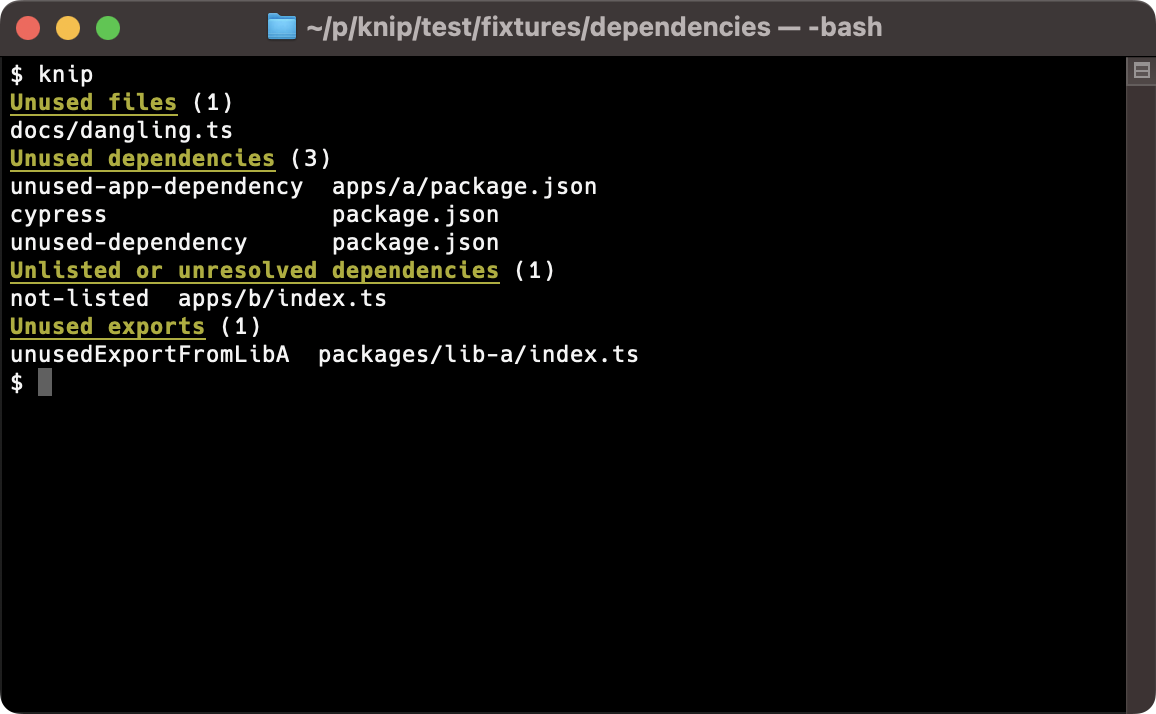
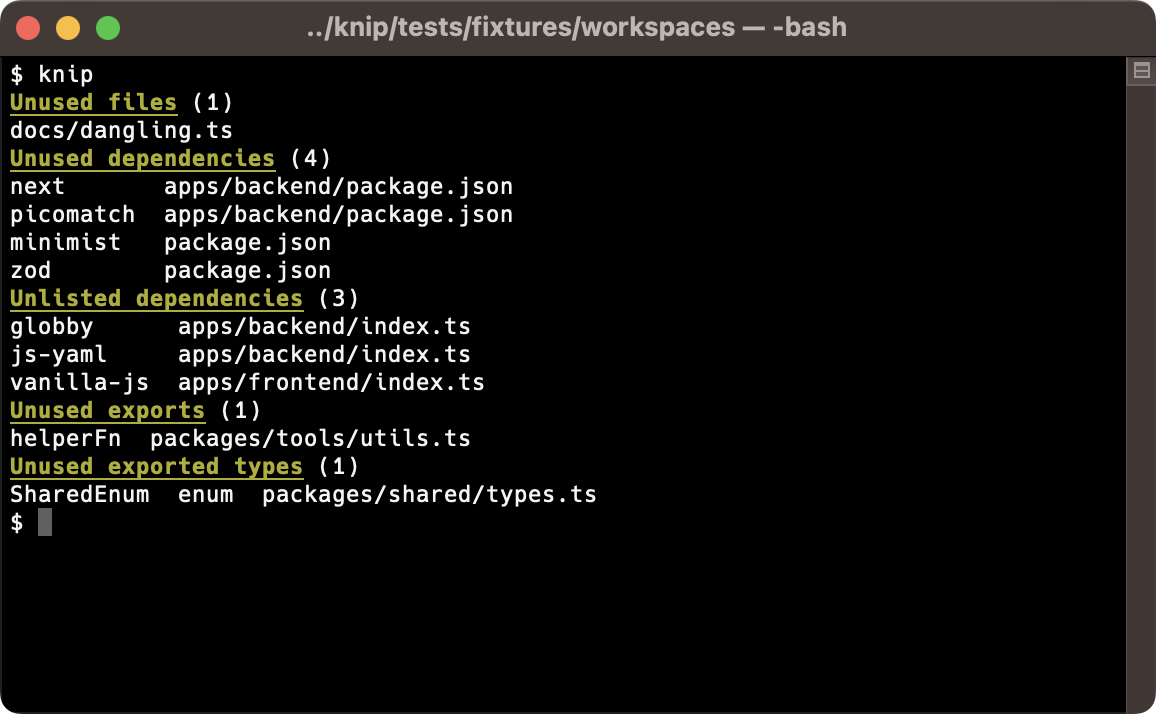
Make names in the workspaces fixture a more real-world example

Changed region(s): [[0.0, 0.2157, 0.5606, 0.7703], [0.218, 0.0, 0.7785, 0.0616]]

diff --git a/tests/workspaces.test.ts b/tests/workspaces.test.ts
@@ -5,9 +5,9 @@ import { resolve, join } from '../src/util/path.js';
 import baseArguments from './helpers/baseArguments.js';
 import baseCounters from './helpers/baseCounters.js';
 
-test('Find unused files, dependencies and exports in workspaces (loose)', async () => {
-  const cwd = resolve('tests/fixtures/workspaces');
+const cwd = resolve('tests/fixtures/workspaces');
 
+test('Find unused files, dependencies and exports in workspaces (default)', async () => {
   const { issues, counters } = await main({
     ...baseArguments,
     cwd,
@@ -15,28 +15,35 @@ test('Find unused files, dependencies and exports in workspaces (loose)', async 
 
   assert(issues.files.has(join(cwd, 'docs/dangling.ts')));
 
-  assert.equal(Object.keys(issues.dependencies['package.json']).length, 1);
-  assert.equal(Object.keys(issues.dependencies['apps/a/package.json']).length, 1);
+  assert.equal(Object.keys(issues.dependencies['package.json']).length, 2);
+  assert.equal(Object.keys(issues.dependencies['apps/backend/package.json']).length, 2);
 
-  assert(issues.dependencies['package.json']['unused-dependency']);
-  assert(issues.dependencies['apps/a/package.json']['unused-app-dependency']);
+  assert(issues.dependencies['package.json']['minimist']);
+  assert(issues.dependencies['package.json']['zod']);
+  assert(issues.dependencies['apps/backend/package.json']['next']);
+  assert(issues.dependencies['apps/backend/package.json']['picomatch']);
 
-  assert.equal(Object.keys(issues.unlisted).length, 1);
-  assert(issues.unlisted['apps/b/index.ts']['not-listed']);
+  assert.equal(Object.keys(issues.unlisted).length, 2);
+  assert(issues.unlisted['apps/frontend/index.ts']['vanilla-js']);
+  assert(issues.unlisted['apps/backend/index.ts']['globby']);
+  assert(issues.unlisted['apps/backend/index.ts']['js-yaml']);
+
+  assert.equal(Object.keys(issues.types).length, 1);
+  assert(issues.types['packages/shared/types.ts']['SharedEnum']);
 
   assert.deepEqual(counters, {
     ...baseCounters,
     files: 1,
-    dependencies: 2,
-    unlisted: 1,
-    processed: 5,
-    total: 5,
+    exports: 1,
+    types: 1,
+    dependencies: 4,
+    unlisted: 3,
+    processed: 7,
+    total: 7,
   });
 });
 
 test('Find unused files, dependencies and exports in workspaces (strict)', async () => {
-  const cwd = resolve('tests/fixtures/workspaces');
-
   const { issues, counters } = await main({
     ...baseArguments,
     cwd,
@@ -44,27 +51,29 @@ test('Find unused files, dependencies and exports in workspaces (strict)', async
     isStrict: true,
   });
 
-  const [file] = Array.from(issues.files);
-  assert.match(String(file), /docs\/dangling\.ts$/);
+  assert(issues.files.has(join(cwd, 'docs/dangling.ts')));
 
   assert.equal(Object.keys(issues.dependencies['package.json']).length, 3);
-  assert.equal(Object.keys(issues.dependencies['apps/a/package.json']).length, 1);
+  assert.equal(Object.keys(issues.dependencies['apps/backend/package.json']).length, 2);
 
-  assert(issues.dependencies['package.json']['unused-dependency']);
-  assert(issues.dependencies['package.json']['root-dependency']);
   assert(issues.dependencies['package.json']['cypress']);
-  assert(issues.dependencies['apps/a/package.json']['unused-app-dependency']);
+  assert(issues.dependencies['package.json']['minimist']);
+  assert(issues.dependencies['package.json']['zod']);
+  assert(issues.dependencies['apps/backend/package.json']['next']);
+  assert(issues.dependencies['apps/backend/package.json']['picomatch']);
 
   assert.equal(Object.keys(issues.unlisted).length, 2);
-  assert(issues.unlisted['apps/a/index.ts']['root-dependency']);
-  assert(issues.unlisted['apps/b/index.ts']['not-listed']);
+  assert(issues.unlisted['apps/frontend/index.ts']['vanilla-js']);
+  assert(issues.unlisted['apps/backend/index.ts']['globby']);
+  assert(issues.unlisted['apps/backend/index.ts']['js-yaml']);
 
   assert.deepEqual(counters, {
     ...baseCounters,
     files: 1,
-    dependencies: 4,
-    unlisted: 2,
-    processed: 5,
-    total: 5,
+    exports: 1,
+    dependencies: 5,
+    unlisted: 3,
+    processed: 7,
+    total: 7,
   });
 });

diff --git a/tests/fixtures/workspaces/apps/backend/index.ts b/tests/fixtures/workspaces/apps/backend/index.ts
@@ -1,0 +1,9 @@
+import defaultA, { usedExportFromLibA } from '@workspaces/shared';
+import defaultB, { usedExportFromLibB } from '@workspaces/tools';
+import { globby } from 'globby';
+import yaml from 'js-yaml';
+
+defaultA;
+defaultB;
+usedExportFromLibA;
+usedExportFromLibB;

diff --git a/tests/fixtures/workspaces/packages/shared/index.ts b/tests/fixtures/workspaces/packages/shared/index.ts
@@ -1,0 +1,7 @@
+import type { SharedInt } from './types';
+
+export default 1;
+
+export const usedExportFromLibA: SharedInt = 2;
+
+export const unusedExportFromLibA: SharedInt = 3;

diff --git a/tests/fixtures/workspaces/packages/tools/index.ts b/tests/fixtures/workspaces/packages/tools/index.ts
@@ -1,0 +1,5 @@
+import { usefulUsedUtil } from './utils';
+
+export default 1;
+
+export const usedExportFromLibB = usefulUsedUtil + 2;

diff --git a/tests/fixtures/workspaces/apps/frontend/index.ts b/tests/fixtures/workspaces/apps/frontend/index.ts
@@ -1,0 +1,6 @@
+import a from '@workspaces/shared';
+import b from '@workspaces/tools';
+import { n } from 'vanilla-js';
+
+a;
+b;

diff --git a/tests/fixtures/workspaces/packages/shared/types.ts b/tests/fixtures/workspaces/packages/shared/types.ts
@@ -1,0 +1,5 @@
+export type SharedInt = number;
+
+export enum SharedEnum {
+  KEY,
+}

diff --git a/tests/fixtures/workspaces/packages/tools/utils.ts b/tests/fixtures/workspaces/packages/tools/utils.ts
@@ -1,0 +1,3 @@
+export const usefulUsedUtil = 0;
+
+export const helperFn = () => 1;
